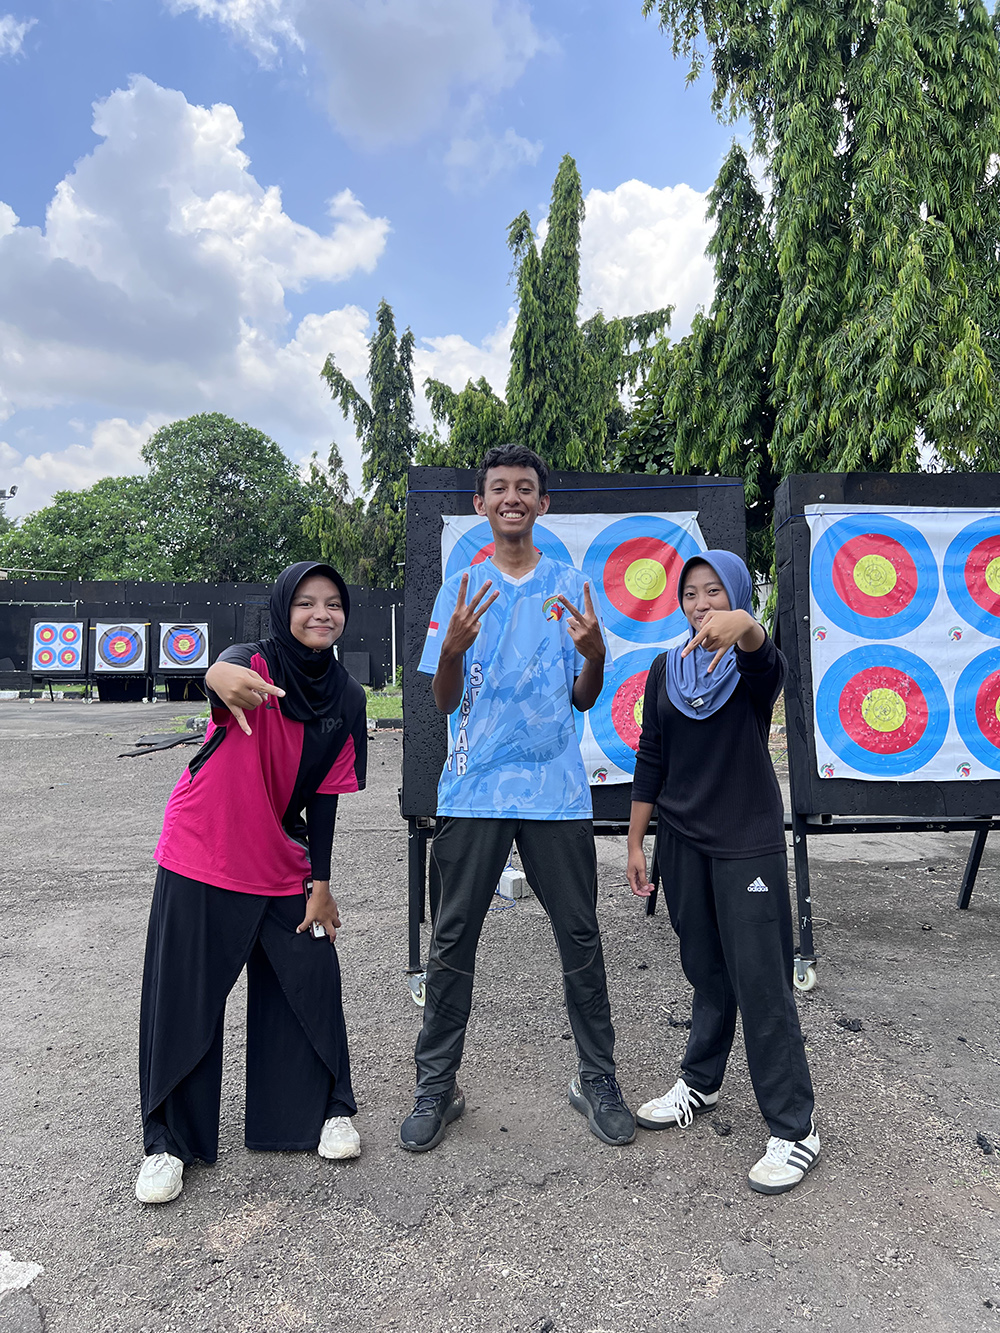
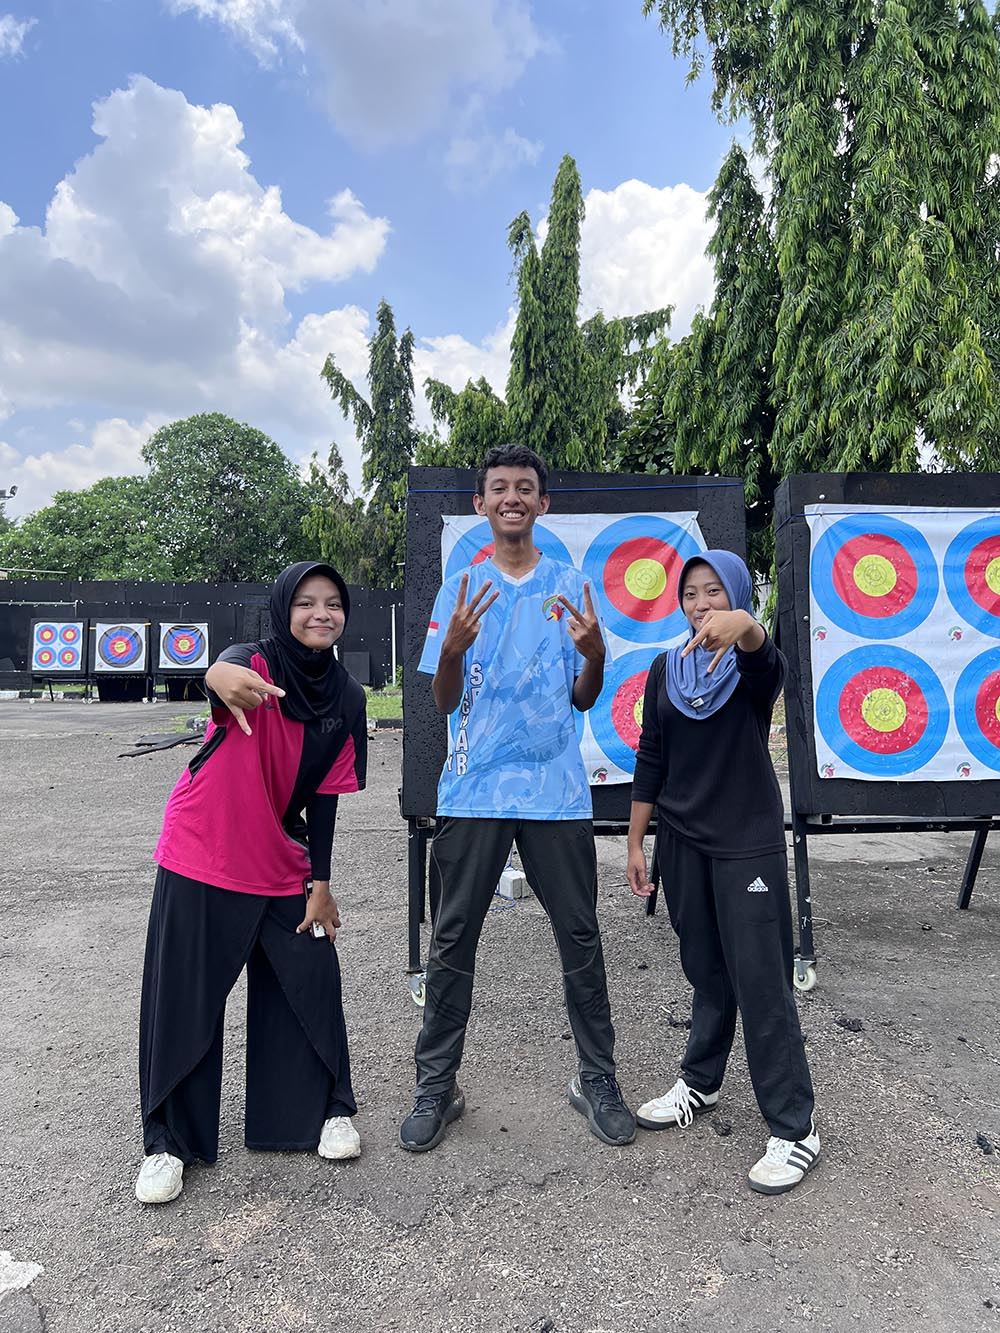
header path fix and image compress

diff --git a/index.html b/index.html
@@ -26,7 +26,7 @@
             crossorigin="anonymous"
             referrerpolicy="no-referrer"
         />
-        <!-- CSS Animation (Client) -->
+        <!-- CSS Animation -->
         <style>
             @keyframes marquee {
                 0% {

diff --git a/static/css/style.css b/static/css/style.css
@@ -8,7 +8,7 @@ section {
     padding-top: 64px;
 }
 #header {
-    background: url("static/images/backgroundnew.jpg");
+    background: url("../images/backgroundnew.jpg");
     background-size: cover;
     background-position: bottom;
 }
